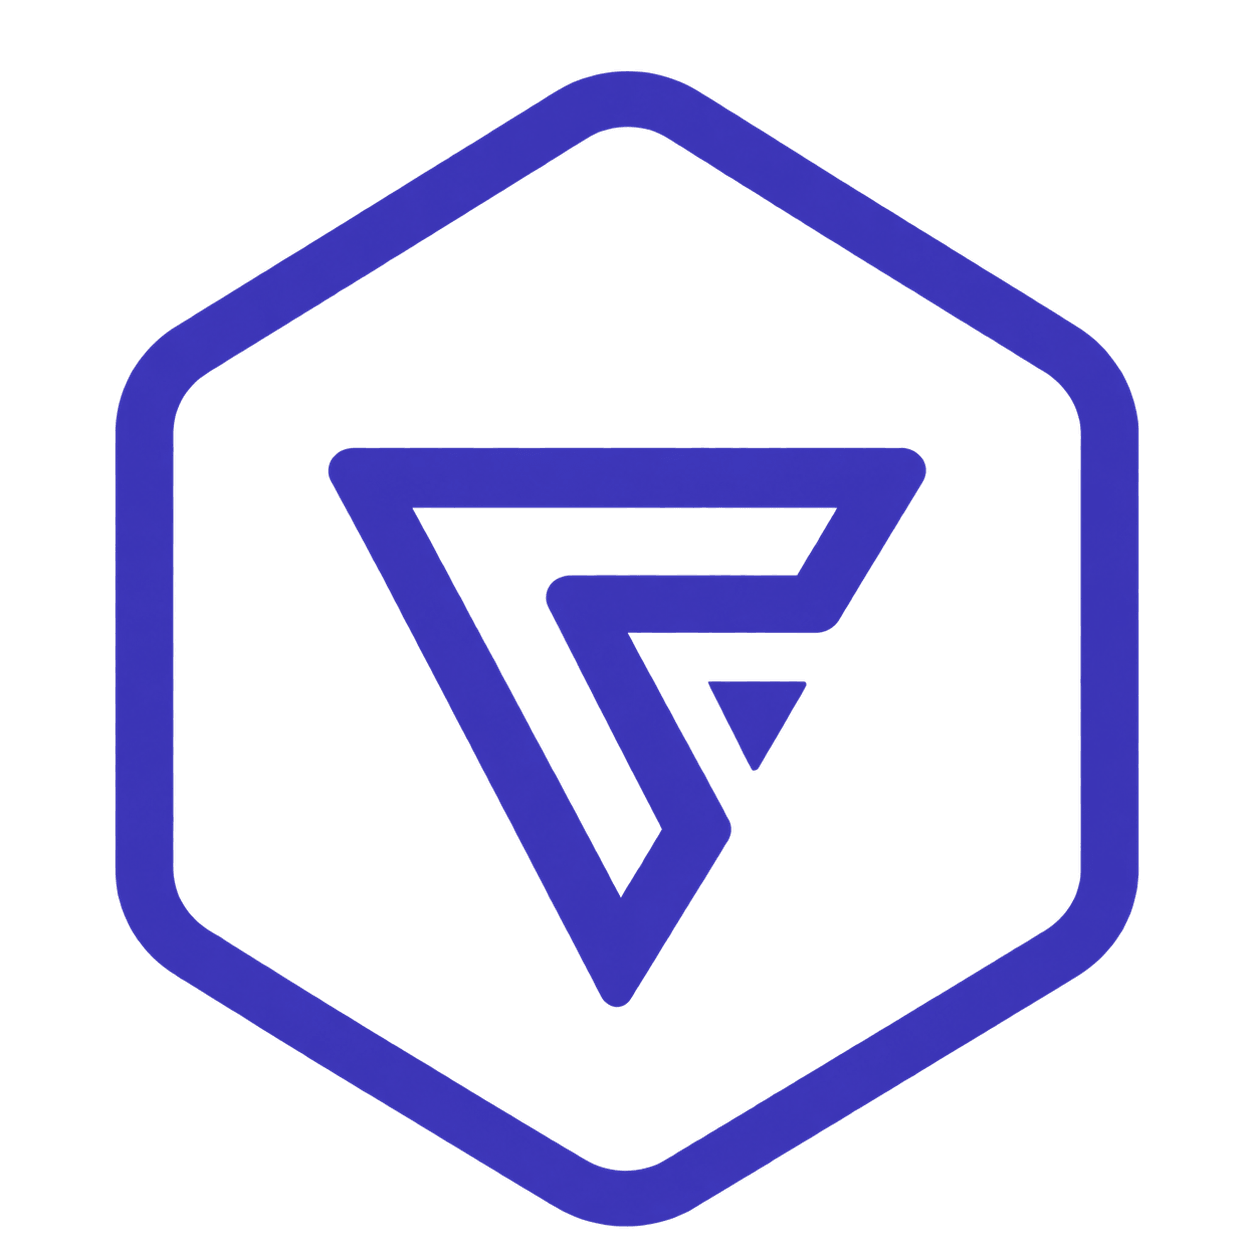
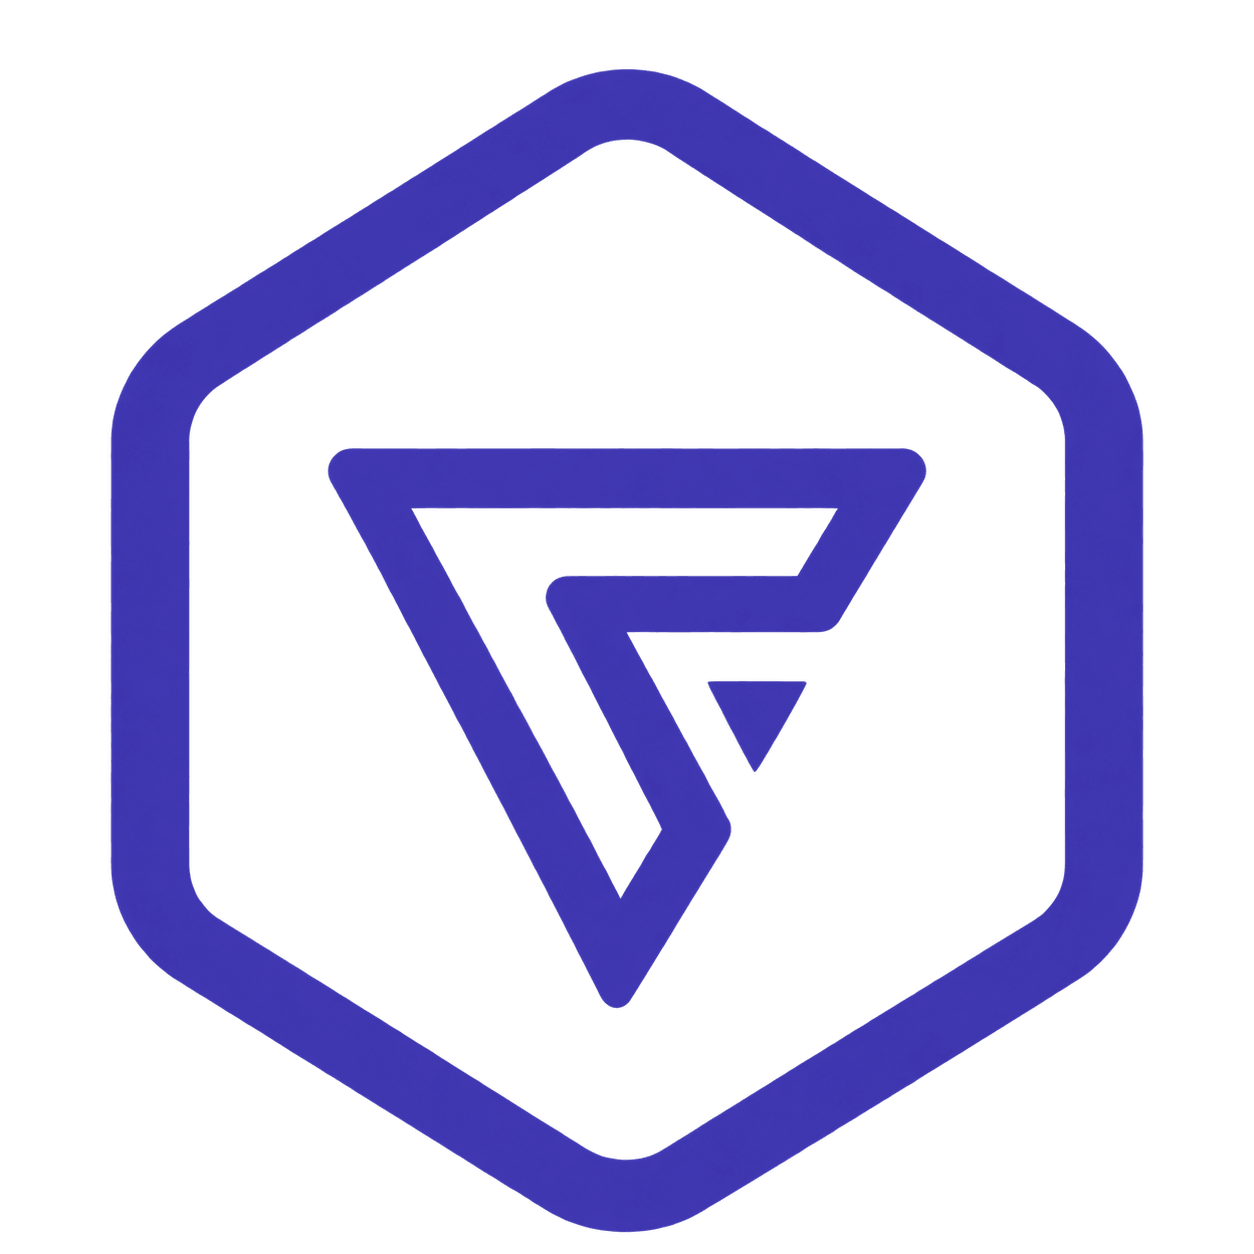
release: trinity agent 5.8.4

diff --git a/extension/CHANGELOG.md b/extension/CHANGELOG.md
@@ -1,5 +1,9 @@
 # Changelog
 
+## 5.8.4
+
+- Replace the light, dark, and neutral tab artwork with the new bold TRINITY icons.
+
 ## 5.8.3
 
 - Tint the selected conversation folder with its own primary color, matching conversation hover within that folder.
